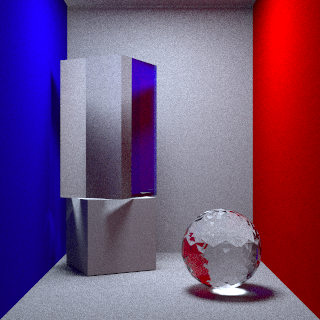
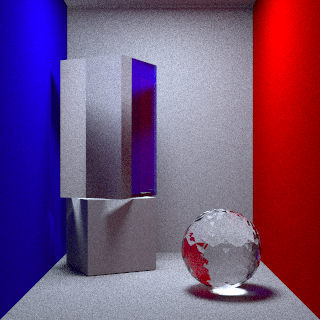
minor

diff --git a/src/macro_def.h b/src/macro_def.h
@@ -22,10 +22,16 @@
 #else /* DEBUG */
 /* debug */
 
+#define NTHREAD 20
+#define IMAGE_WIDTH 320
+#define IMAGE_HEIGHT 320
+#define AVG_SAMPLE_PER_PIX ((unsigned long long)(1 << 20))
+/*
 #define NTHREAD 8
 #define IMAGE_WIDTH (1 << 2)
 #define IMAGE_HEIGHT (1 << 2)
 #define AVG_SAMPLE_PER_PIX (1 << 2)
+*/
 
 #endif /* DEBUG */
 
